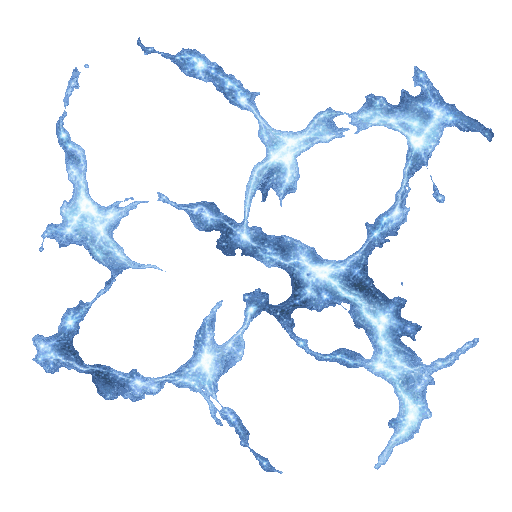
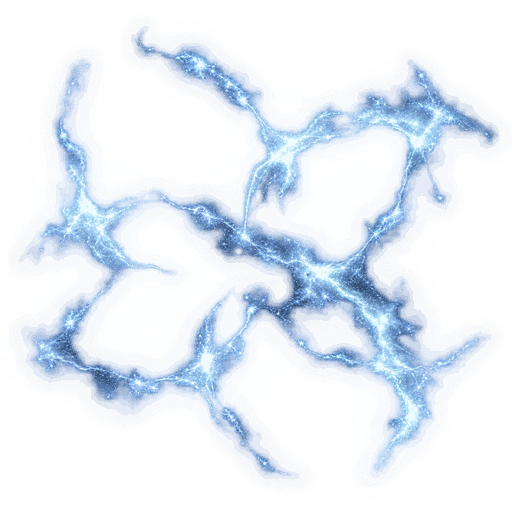
Sharpen and refine the Razi starmap atlas

Changed region(s): [[0.0312, 0.0625, 1.0, 0.9375]]

diff --git a/tests/test_starmap_background.py b/tests/test_starmap_background.py
@@ -54,7 +54,9 @@ class StarmapBackgroundTests(unittest.TestCase):
             self.assertTrue(transparent)
             self.assertLess(size,350000)
             if name.startswith("atlas-starfield-"):
-                self.assertEqual((w,h,depth,colour),(512,512,4,3))
+                self.assertEqual((w,h,depth,colour),(1024,1024,8,3))
+            if name in ("atlas-halo.png","atlas-dust.png","atlas-belt.png"):
+                self.assertEqual((w,h,depth,colour),(512,512,8,3))
     def test_refined_atlas_uses_full_alpha_gradient(self):
         # Earlier 25-step alpha ramps produced blocky contour bands at
         # large starmap zoom. Every new texture now has 256 alpha entries.
@@ -97,7 +99,8 @@ class StarmapBackgroundTests(unittest.TestCase):
         for legacy in ("filament-","galactic-current.png","sky-",
                        "rift-deep-space.png","dust-lane-2.png"):
             self.assertNotIn(legacy,module)
-        self.assertIn('size={128,128}',module)
+        self.assertIn('local ATMOSPHERE_SIZE=512',module)
+        self.assertIn('size={1024,1024},scale=6',module)
         self.assertNotIn('data:extend',module)
         self.assertNotIn('space-connection',module)
 if __name__=="__main__":

diff --git a/tests/test_calidus_dyson.py b/tests/test_calidus_dyson.py
@@ -70,7 +70,7 @@ class DysonIntegrationTests(unittest.TestCase):
         self.assertIn('location.draw_orbit=false',compat)
         backdrop=read("prototypes/system/starmap_background.lua")
         self.assertIn('razi-starmap-galactic-ornaments',backdrop)
-        self.assertIn('system.name=="calidus" and 8.4',backdrop)
+        self.assertIn('system.name=="calidus" and 2.1',backdrop)
         self.assertIn('strength=.38',backdrop)
         for filename,expected_width in (("calidus-dyson-stages.png",1792),):
             raw=(ROOT/"graphics/starmap/razi"/filename).read_bytes()

diff --git a/docs/STARMAP_BACKGROUND.md b/docs/STARMAP_BACKGROUND.md
@@ -64,14 +64,23 @@ validated. The default-colored strokes are also dimmer and capped at 600
 static segments instead of 1,800, to avoid visual spaghetti.
 
 
-## Original deep-space starfield (2.1.40)
+## High-resolution deep-space atlas (2.1.40)
 
 The starfield draws inspiration from the starry background of Tserup's mod,
-but all four textures were authored independently for Razi Protocol.
-Four original 512px, four-bit indexed transparent PNGs are arranged across
-a four-by-four atlas covering the central seven systems and the deep-space
-frontier. The star points vary in temperature, brightness and clustering,
-leaving dark breathing room for planets, routes and labels.
+but all textures were authored independently for Razi Protocol. Four original
+1024px indexed transparent PNGs are arranged across a four-by-four atlas
+covering the central seven systems and the deep-space frontier. Their render
+scale is half the earlier value, preserving the same map coverage while giving
+each star twice the source resolution. Star points vary in temperature,
+brightness and clustering while leaving dark breathing room for planets,
+routes and labels.
+
+The halo, dust and belt overlays are now 512px rather than 128px. Their scales
+were reduced by the matching factor of four, so their world-space footprint is
+unchanged but their corona, wisps and asteroid fragments remain crisp. Lower
+default opacity keeps route lines and labels readable. The new halo has a clear
+core for the real system star; dust is asymmetrical rather than a round smudge;
+and belts use broken particle arcs instead of a soft neon loop.
 
 Sixteen static background sprites are rendered below the current system
 halos, real stars and other game artwork. The existing Subtle and Cinematic
@@ -80,5 +89,5 @@ cartography switches remain independent, and the existing compatibility
 guard defers to Better_Starmap_Background when installed.
 
 This adds no tick loop, gameplay hazard, research gate, map node or route.
-The additional indexed textures total about 515 KiB on disk.
+The indexed textures remain bounded by the asset-contract size limit.
 Full Factorio 2.1 graphics testing at multiple zooms remains necessary.
